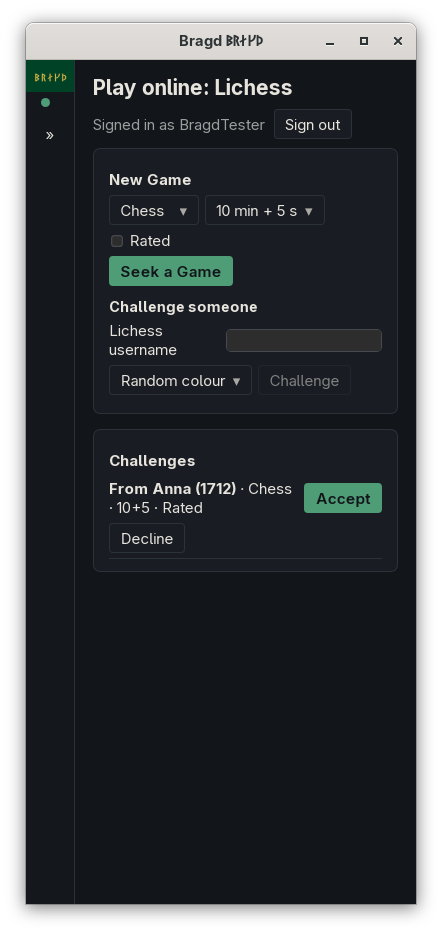
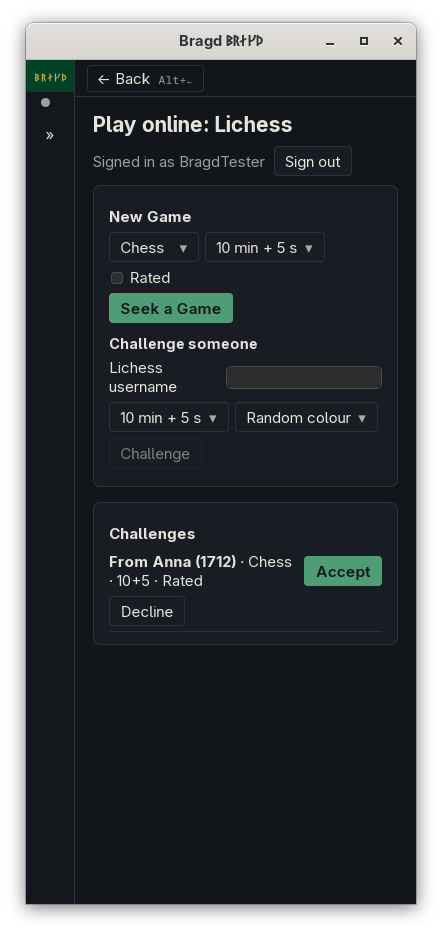
A challenge to a named player on Lichess can be blitz (3+0, 3+2, 5+0, 5+3), while a seek stays rapid or classical.

diff --git a/gui/src/PlayOnline.svelte b/gui/src/PlayOnline.svelte
@@ -23,6 +23,8 @@
   // The seek's and the challenge's settings.
   let variant = $state("");
   let time = $state("");
+  // A challenge has a time of its own: a server may allow more for it than for a seek.
+  let ctime = $state("");
   let rated = $state(false);
   let user = $state("");
   let color = $state("random");
@@ -54,6 +56,9 @@
   $effect(() => {
     if (view && !view.variants.some((/** @type {any} */ v) => v.value === variant) && view.variants.length) variant = view.variants[0].value;
     if (view && !view.times.some((/** @type {any} */ x) => x.value === time) && view.times.length) time = view.times[Math.min(1, view.times.length - 1)].value;
+    // The same default as the seek's, when the challenge offers it.
+    if (view && !view.challengeTimes.some((/** @type {any} */ x) => x.value === ctime) && view.challengeTimes.length)
+      ctime = (view.challengeTimes.find((/** @type {any} */ x) => x.value === time) ?? view.challengeTimes[0]).value;
   });
   const name = $derived(view?.server.name ?? "");
 
@@ -72,7 +77,7 @@
 
   const signIn = () => run(() => api.onlineSignIn(server));
   const seek = () => run(() => api.onlineSeek(server, variant, time, rated));
-  const challenge = () => run(() => api.onlineChallenge(server, user, variant, time, rated, color).then((r) => ((user = ""), r)));
+  const challenge = () => run(() => api.onlineChallenge(server, user, variant, ctime, rated, color).then((r) => ((user = ""), r)));
   const answer = (/** @type {string} */ id, /** @type {string} */ what) => run(() => api.onlineAnswer(server, id, what));
   const act = (/** @type {string} */ what) => run(() => api.onlineAction(server, what));
   const say = () => run(() => api.onlineSay(server, line).then(() => (line = "")));
@@ -202,6 +207,7 @@
         <h3>{t("online.challenge_someone")}</h3>
         <div class="form">
           <label class="field">{t("online.username", { server: name })} <input bind:value={user} autocomplete="off" spellcheck="false" /></label>
+          <Picker value={ctime} choices={view.challengeTimes} label={t("online.time")} onchange={(v) => (ctime = v)} />
           <Picker value={color} choices={view.colours} label={t("online.your_colour")} onchange={(v) => (color = v)} />
           <button onclick={challenge} disabled={busy || !user.trim() || !view.connected}>{t("online.challenge")}</button>
         </div>

diff --git a/gui/src/api.js b/gui/src/api.js
@@ -295,7 +295,7 @@ export const onlineReconnect = (/** @type {string} */ server) => invoke("online_
 export const onlineSeek = (/** @type {string} */ server, /** @type {string} */ variant, /** @type {string} */ time, /** @type {boolean} */ rated) =>
   invoke("online_seek", { server, variant, time, rated });
 export const onlineSeekCancel = (/** @type {string} */ server) => invoke("online_seek_cancel", { server });
-/** @returns {Promise<any>} */
+/** `time` is one of the page's `challengeTimes`. @returns {Promise<any>} */
 export const onlineChallenge = (/** @type {string} */ server, /** @type {string} */ user, /** @type {string} */ variant, /** @type {string} */ time, /** @type {boolean} */ rated, /** @type {string} */ color) =>
   invoke("online_challenge", { server, user, variant, time, rated, color });
 /** Accepts, declines or cancels a challenge. @returns {Promise<any>} */

diff --git a/crates/bragd-online/src/session.rs b/crates/bragd-online/src/session.rs
@@ -208,8 +208,8 @@ impl Online {
         self.lock().client.clone().ok_or_else(|| t!("online.error.not_signed_in", "server" => self.name()))
     }
 
-    fn time(&self, time: &str) -> Result<Time, String> {
-        Time::parse(time).filter(|_| self.dialect.times.contains(&time)).ok_or_else(|| t!("online.error.time", "server" => self.name()))
+    fn time(&self, time: &str, offered: &[&str]) -> Result<Time, String> {
+        Time::parse(time).filter(|_| offered.contains(&time)).ok_or_else(|| t!("online.error.time", "server" => self.name()))
     }
 
     fn variant(&self, variant: &str) -> Result<&'static str, String> {
@@ -347,6 +347,10 @@ impl Online {
     }
 }
 
+fn labelled(times: &[&str]) -> Vec<(String, String)> {
+    times.iter().filter_map(|t| Some((t.to_string(), Time::parse(t)?.label()))).collect()
+}
+
 impl Play for Online {
     fn server(&self) -> &'static crate::server::Server {
         self.dialect.server
@@ -357,7 +361,11 @@ impl Play for Online {
     }
 
     fn times(&self) -> Vec<(String, String)> {
-        self.dialect.times.iter().filter_map(|t| Some((t.to_string(), Time::parse(t)?.label()))).collect()
+        labelled(self.dialect.times)
+    }
+
+    fn challenge_times(&self) -> Vec<(String, String)> {
+        labelled(self.dialect.challenge_times)
     }
 
     fn colours(&self) -> [&'static str; 2] {
@@ -508,7 +516,7 @@ impl Play for Online {
 
     fn seek(&self, variant: &str, time: &str, rated: bool) -> Result<(), String> {
         let v = self.variant(variant)?;
-        let time = self.time(time)?;
+        let time = self.time(time, self.dialect.times)?;
         let client = self.client()?;
         let stop = Arc::new(AtomicBool::new(false));
         {
@@ -544,7 +552,7 @@ impl Play for Online {
 
     fn challenge(&self, user: &str, variant: &str, time: &str, rated: bool, color: &str) -> Result<(), String> {
         let v = self.variant(variant)?;
-        let time = self.time(time)?;
+        let time = self.time(time, self.dialect.challenge_times)?;
         let user = user.trim();
         if user.is_empty() || !user.chars().all(|c| c.is_ascii_alphanumeric() || c == '_' || c == '-') {
             return Err(t!("online.error.user", "server" => self.name()));
@@ -809,6 +817,16 @@ mod tests {
         online.challenge("anna", "chess960", "15+10", true, "white").unwrap();
         let r = f.seen().into_iter().find(|r| r.path == "/api/challenge/anna").unwrap();
         assert_eq!(r.body, "rated=true&clock.limit=900&clock.increment=10&color=white&variant=chess960");
+        // Blitz: a challenge may ask for it, a seek may not, and bullet is never offered.
+        online.challenge("anna", "chess", "3+2", false, "random").unwrap();
+        let r = f.seen().into_iter().rev().find(|r| r.path == "/api/challenge/anna").unwrap();
+        assert_eq!(r.body, "rated=false&clock.limit=180&clock.increment=2&color=random&variant=standard");
+        let no_time = t!("online.error.time", "server" => "Lichess");
+        assert_eq!(online.challenge("anna", "chess", "1+0", false, "random").unwrap_err(), no_time, "no bullet");
+        assert_eq!(online.seek("chess", "3+2", false).unwrap_err(), no_time, "no blitz seek");
+        let values = |l: Vec<(String, String)>| l.into_iter().map(|(v, _)| v).collect::<Vec<_>>();
+        assert!(!values(online.times()).contains(&"3+2".to_string()));
+        assert!(values(online.challenge_times()).contains(&"3+2".to_string()));
     }
 
     fn signed_in_lishogi() -> (fake::Fake, Online) {

diff --git a/crates/bragd-online/src/board.rs b/crates/bragd-online/src/board.rs
@@ -22,6 +22,9 @@ pub struct Dialect {
     pub colours: [&'static str; 2],
     /// The times offered for a real-time Game, as [`Time`] writes them.
     pub times: &'static [&'static str],
+    /// The times a challenge to a named player may ask for: a server may allow more than it
+    /// lets a seek ask for.
+    pub challenge_times: &'static [&'static str],
     /// Takebacks can be asked for.
     pub takeback: bool,
     /// The challenges can be listed (`GET /api/challenge`) and one's own cancelled. Lishogi sends
@@ -42,6 +45,9 @@ pub const LICHESS: Dialect = Dialect {
     colours: ["white", "black"],
     // Rapid and classical: what the Board API plays in real time.
     times: &["10+0", "10+5", "15+10", "30+0", "30+20"],
+    // A direct challenge may also be blitz (never bullet); a seek and the Board API's other
+    // real-time play may not.
+    challenge_times: &["3+0", "3+2", "5+0", "5+3", "10+0", "10+5", "15+10", "30+0", "30+20"],
     takeback: true,
     challenge_list: true,
     normalise: |_| {},
@@ -55,6 +61,7 @@ pub const LISHOGI: Dialect = Dialect {
     // Lishogi's Board API takes a Game of at least 15 minutes' estimated length when rated
     // (main time + 25 × byoyomi), and a rated Game has one byoyomi period and no increment.
     times: &["10|30", "15|30", "30|30", "30|60"],
+    challenge_times: &["10|30", "15|30", "30|30", "30|60"],
     takeback: false,
     challenge_list: false,
     normalise: game::from_lishogi,
@@ -338,8 +345,14 @@ mod tests {
         assert_eq!(Time::parse("10"), None);
         assert_eq!(Time::parse("x+5"), None);
         for d in [&LICHESS, &LISHOGI] {
-            assert!(d.times.iter().all(|t| Time::parse(t).is_some()), "{}", d.server.id);
+            assert!(d.times.iter().chain(d.challenge_times).all(|t| Time::parse(t).is_some()), "{}", d.server.id);
+            assert!(d.times.iter().all(|t| d.challenge_times.contains(t)), "{}: a challenge may ask for what a seek may", d.server.id);
         }
+        assert_eq!(LISHOGI.challenge_times, LISHOGI.times);
+        // Lichess: blitz (3 to 5 minutes) only in a challenge, never bullet.
+        let blitz = |l: &[&str]| l.iter().filter(|t| Time::parse(t).is_some_and(|t| t.minutes < 10)).count();
+        assert_eq!(blitz(LICHESS.times), 0);
+        assert_eq!(blitz(LICHESS.challenge_times), 4);
         // Lishogi: a rated Game needs 900 s by its estimate.
         assert!(LISHOGI.times.iter().map(|t| Time::parse(t).unwrap()).all(|t| t.minutes * 60 + 25 * t.byoyomi >= 900 && t.increment == 0));
         let f = Time::parse("10|30").unwrap().challenge_form();

diff --git a/gui/src-tauri/src/online.rs b/gui/src-tauri/src/online.rs
@@ -122,6 +122,8 @@ pub struct Page {
     terms: &'static str,
     variants: Vec<Choice>,
     times: Vec<Choice>,
+    /// The times a challenge to a named player may ask for.
+    challenge_times: Vec<Choice>,
     colours: Vec<Choice>,
     can: Can,
     /// Bragd can sign in there: OGS needs Bragd registered with it first.
@@ -142,7 +144,9 @@ fn page(s: &dyn Play, ctx: &Ctx) -> Page {
     let info = s.server();
     let tr = |k: &str| bragd_core::i18n::tr(k, &[]);
     let variants = s.variants().into_iter().filter(|v| cfg.variant_on(v)).map(|key| Choice { value: key.into(), label: tr(&format!("variant.{key}")) }).collect();
-    let times = s.times().into_iter().map(|(value, label)| Choice { value, label }).collect();
+    let choices = |l: Vec<(String, String)>| l.into_iter().map(|(value, label)| Choice { value, label }).collect();
+    let times = choices(s.times());
+    let challenge_times = choices(s.challenge_times());
     let colours = std::iter::once("random").chain(s.colours()).map(|c| Choice { value: c.into(), label: if c == "random" { tr("online.color.random") } else { tr(&format!("side.{c}")) } }).collect();
     let family = info.families.iter().find(|f| cfg.family_shown(f)).copied().unwrap_or(info.families[0]);
     let view = s.view();
@@ -151,6 +155,7 @@ fn page(s: &dyn Play, ctx: &Ctx) -> Page {
         terms: info.terms,
         variants,
         times,
+        challenge_times,
         colours,
         can: s.can(),
         ready: s.ready(),

diff --git a/crates/bragd-online/src/lib.rs b/crates/bragd-online/src/lib.rs
@@ -41,6 +41,11 @@ pub trait Play: Send + Sync {
     fn variants(&self) -> Vec<&'static str>;
     /// The time controls a seek or a challenge may ask for: the value sent back, and its label.
     fn times(&self) -> Vec<(String, String)>;
+    /// The time controls a challenge to a named player may ask for: the same unless the server
+    /// allows more than a seek.
+    fn challenge_times(&self) -> Vec<(String, String)> {
+        self.times()
+    }
     /// The colours a challenge may ask for, as its API names them: the first to move first.
     fn colours(&self) -> [&'static str; 2];
     fn can(&self) -> Can;
@@ -68,7 +73,7 @@ pub trait Play: Send + Sync {
     /// casual. It waits until someone takes it or it is cancelled.
     fn seek(&self, variant: &str, time: &str, rated: bool) -> Result<(), String>;
     fn seek_cancel(&self);
-    /// Challenges `user`; `color` is `random` or one of [`Play::colours`].
+    /// Challenges `user` at `time` (one of [`Play::challenge_times`]); `color` is `random` or one of [`Play::colours`].
     fn challenge(&self, user: &str, variant: &str, time: &str, rated: bool, color: &str) -> Result<(), String>;
     /// Accepts, declines or cancels the challenge `id`: `what` is `accept`, `decline` or
     /// `cancel`.

diff --git a/docs/online/playing-online.md b/docs/online/playing-online.md
@@ -24,7 +24,7 @@ Open chess's **Play** and press **Play on Lichess**. The first time, press **Sig
 | **Sign in to Lichess** | Opens Lichess's sign-in page in your browser. Bragd waits up to five minutes for it |
 | **Sign out** | Lichess takes the token back, and it is removed from your keychain |
 | **Seek a Game** | Asks Lichess for an opponent with the Variant, time and *Rated* chosen. **Cancel** stops waiting |
-| **Challenge** | Challenges the Lichess user named, with the same Variant and time, and the colour chosen |
+| **Challenge** | Challenges the Lichess user named, with the Variant and *Rated* chosen above, a time of its own (blitz is offered here) and the colour chosen |
 | **Accept** / **Decline** | Answers a challenge made to you |
 | **Cancel** | Takes back a challenge you made |
 | **Reconnect** | Opens the connection again after it was lost |
@@ -55,7 +55,7 @@ Bragd plays the Lichess Variants it has rules for. A Variant you turned off in S
 
 A challenge in another Variant, such as crazyhouse or atomic, can be declined but not accepted here. Play it on lichess.org.
 
-Real-time Games on Lichess's Board API are rapid or classical: the times offered run from 10 minutes to 30 minutes plus 20 seconds.
+Lichess's Board API plays rapid and classical Games in real time, so a seek offers 10 minutes to 30 minutes plus 20 seconds. A challenge to a named player may also be blitz: 3+0, 3+2, 5+0 or 5+3. Bullet is never offered.
 
 ### Fair play
 
@@ -116,7 +116,7 @@ The token was taken back on Lichess (*Preferences → API access tokens*), or it
 
 #### Why can't I seek a 3-minute Game?
 
-Lichess's Board API, which Bragd plays through, is for rapid and classical Games. Faster Games are played on lichess.org.
+Lichess's Board API, which Bragd plays through, lets an open seek be rapid or classical only. It allows blitz (3+0, 3+2, 5+0, 5+3) just for a challenge to a named player, so type the name and pick the time in the challenge form. Bullet and a blitz seek are played on lichess.org.
 
 #### Can I play a Game I started on lichess.org?
 

diff --git a/changelog.d/lichess-blitz-challenge.md b/changelog.d/lichess-blitz-challenge.md
@@ -1,0 +1,1 @@
+| **A challenge to a named player on Lichess can be blitz.** The challenge form has a time of its own, which adds 3+0, 3+2, 5+0 and 5+3. A seek stays rapid or classical, because Lichess allows nothing faster for one. | [Playing online](online/playing-online.md#why-cant-i-seek-a-3-minute-game) |
